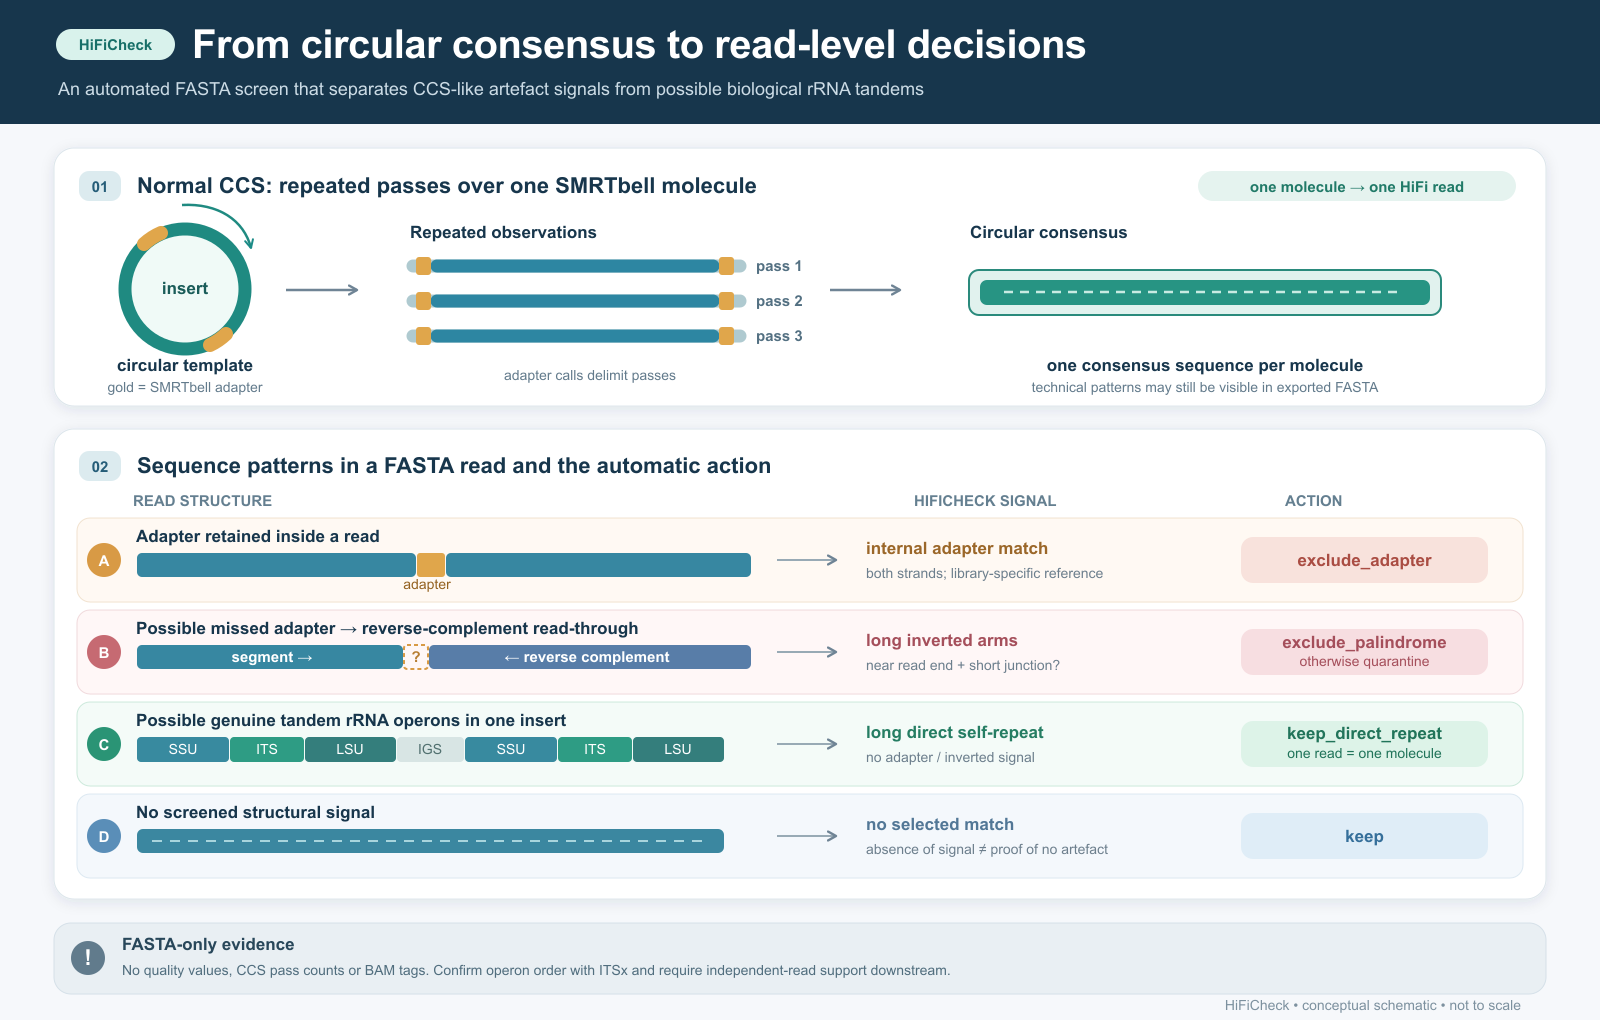
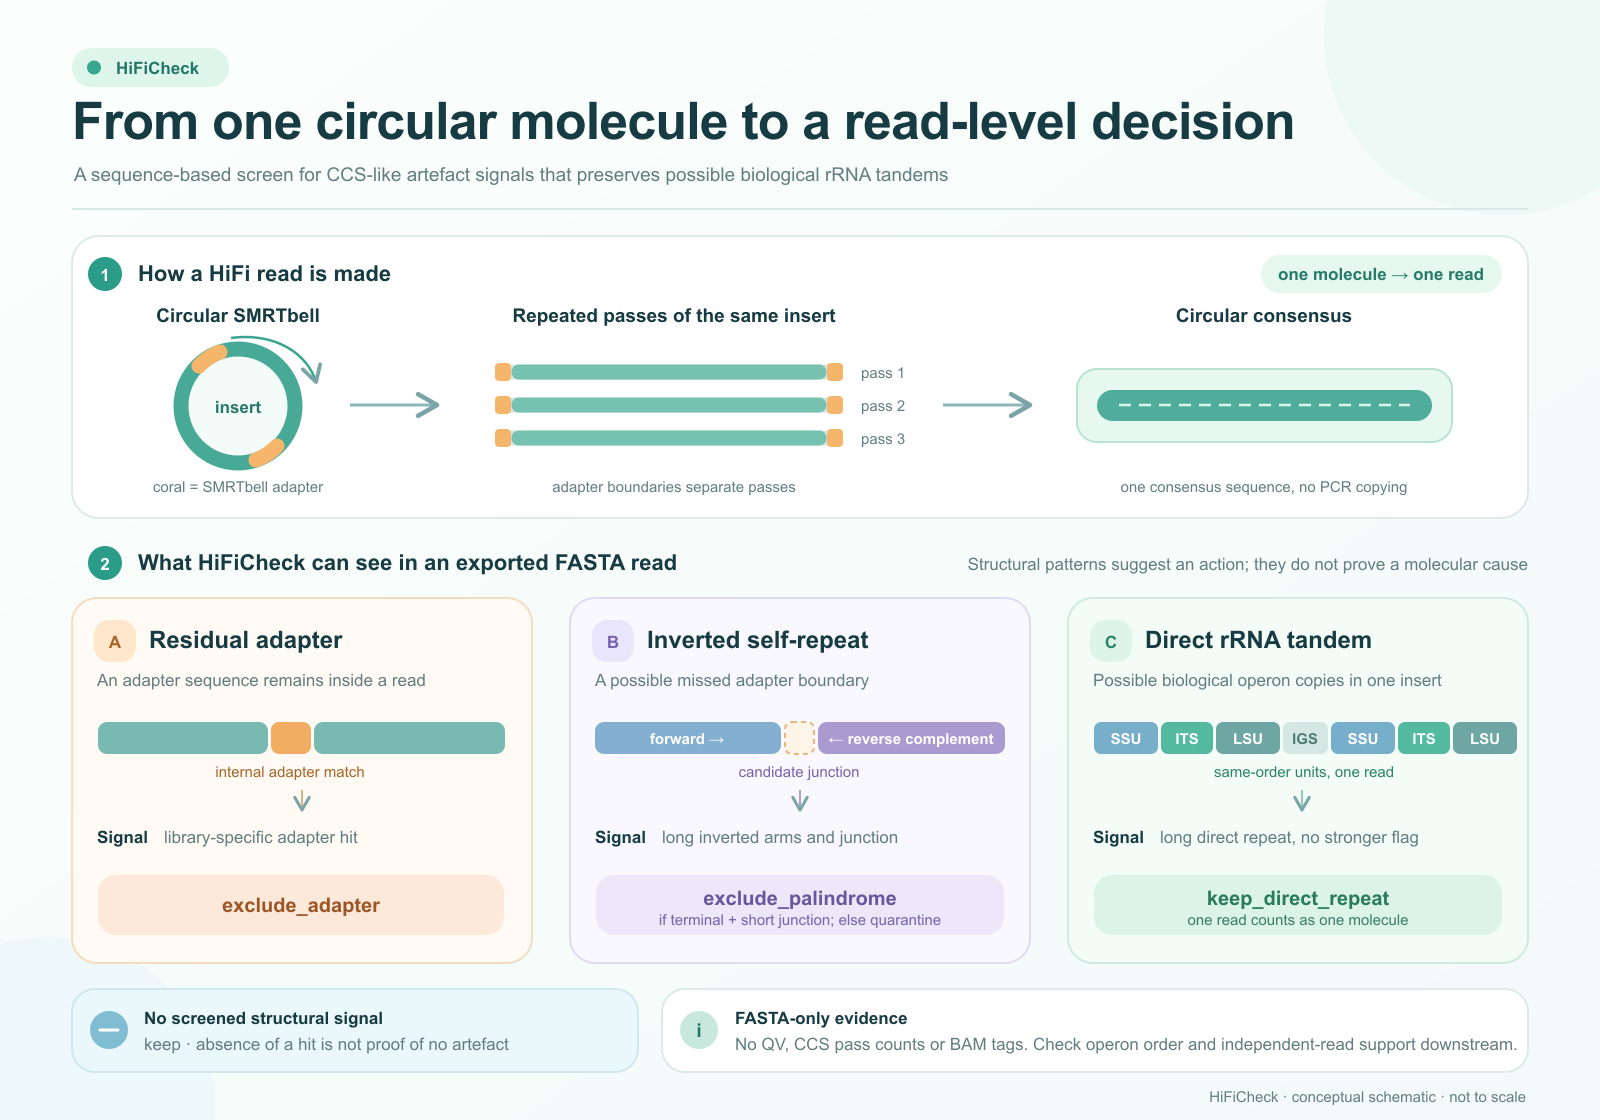
Refresh concept diagram and add development attribution

diff --git a/hificheck.cpp b/hificheck.cpp
@@ -1,5 +1,6 @@
 // Streaming, bounded-memory screen for sequence-visible PacBio CCS artefacts.
 // C++17; no third-party libraries. Decisions are automated FASTA heuristics.
+// Developed by GPT-6 Sol under the guidance and supervision of Yanpeng Chen.
 #include <algorithm>
 #include <atomic>
 #include <chrono>

diff --git a/README.md b/README.md
@@ -11,6 +11,9 @@ HiFiCheck uses C++17 and the standard library. It does not require a virtual
 environment, Conda, Python packages or a read database. Python 3 is needed
 only to run the optional tests and synthetic benchmark.
 
+**Development attribution:** The code in this repository was developed by
+GPT-6 Sol under the guidance and supervision of Yanpeng Chen.
+
 ![How CCS artefacts arise and how HiFiCheck classifies them](docs/hificheck_concept.svg)
 
 **Conceptual overview.** CCS combines repeated observations of one circular
